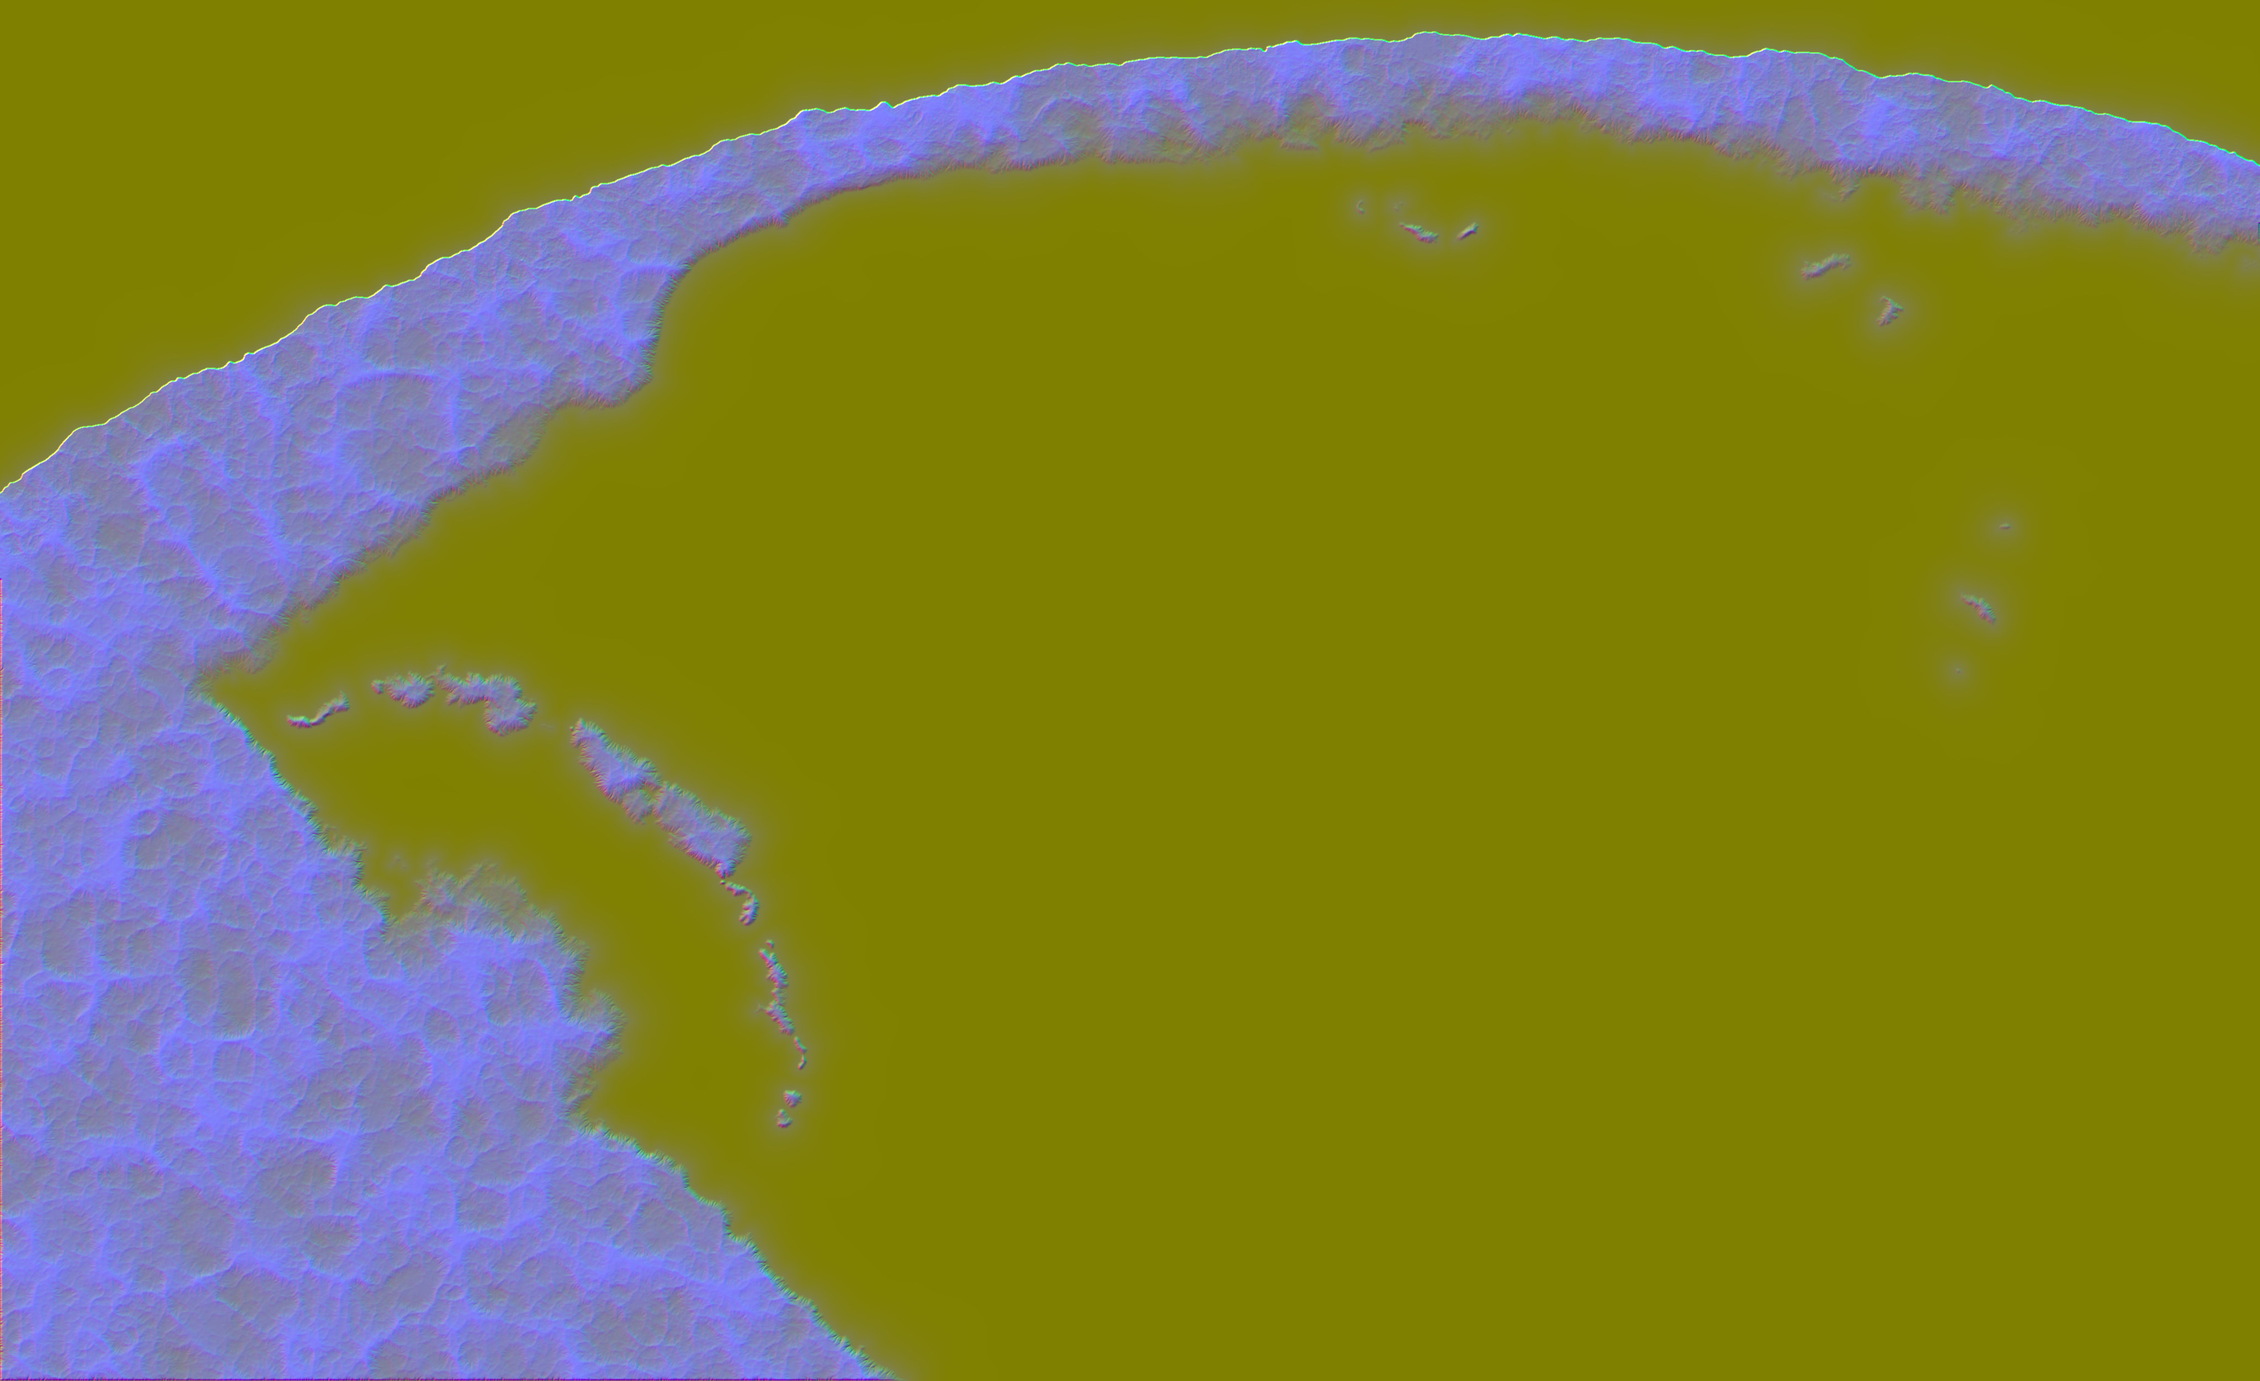
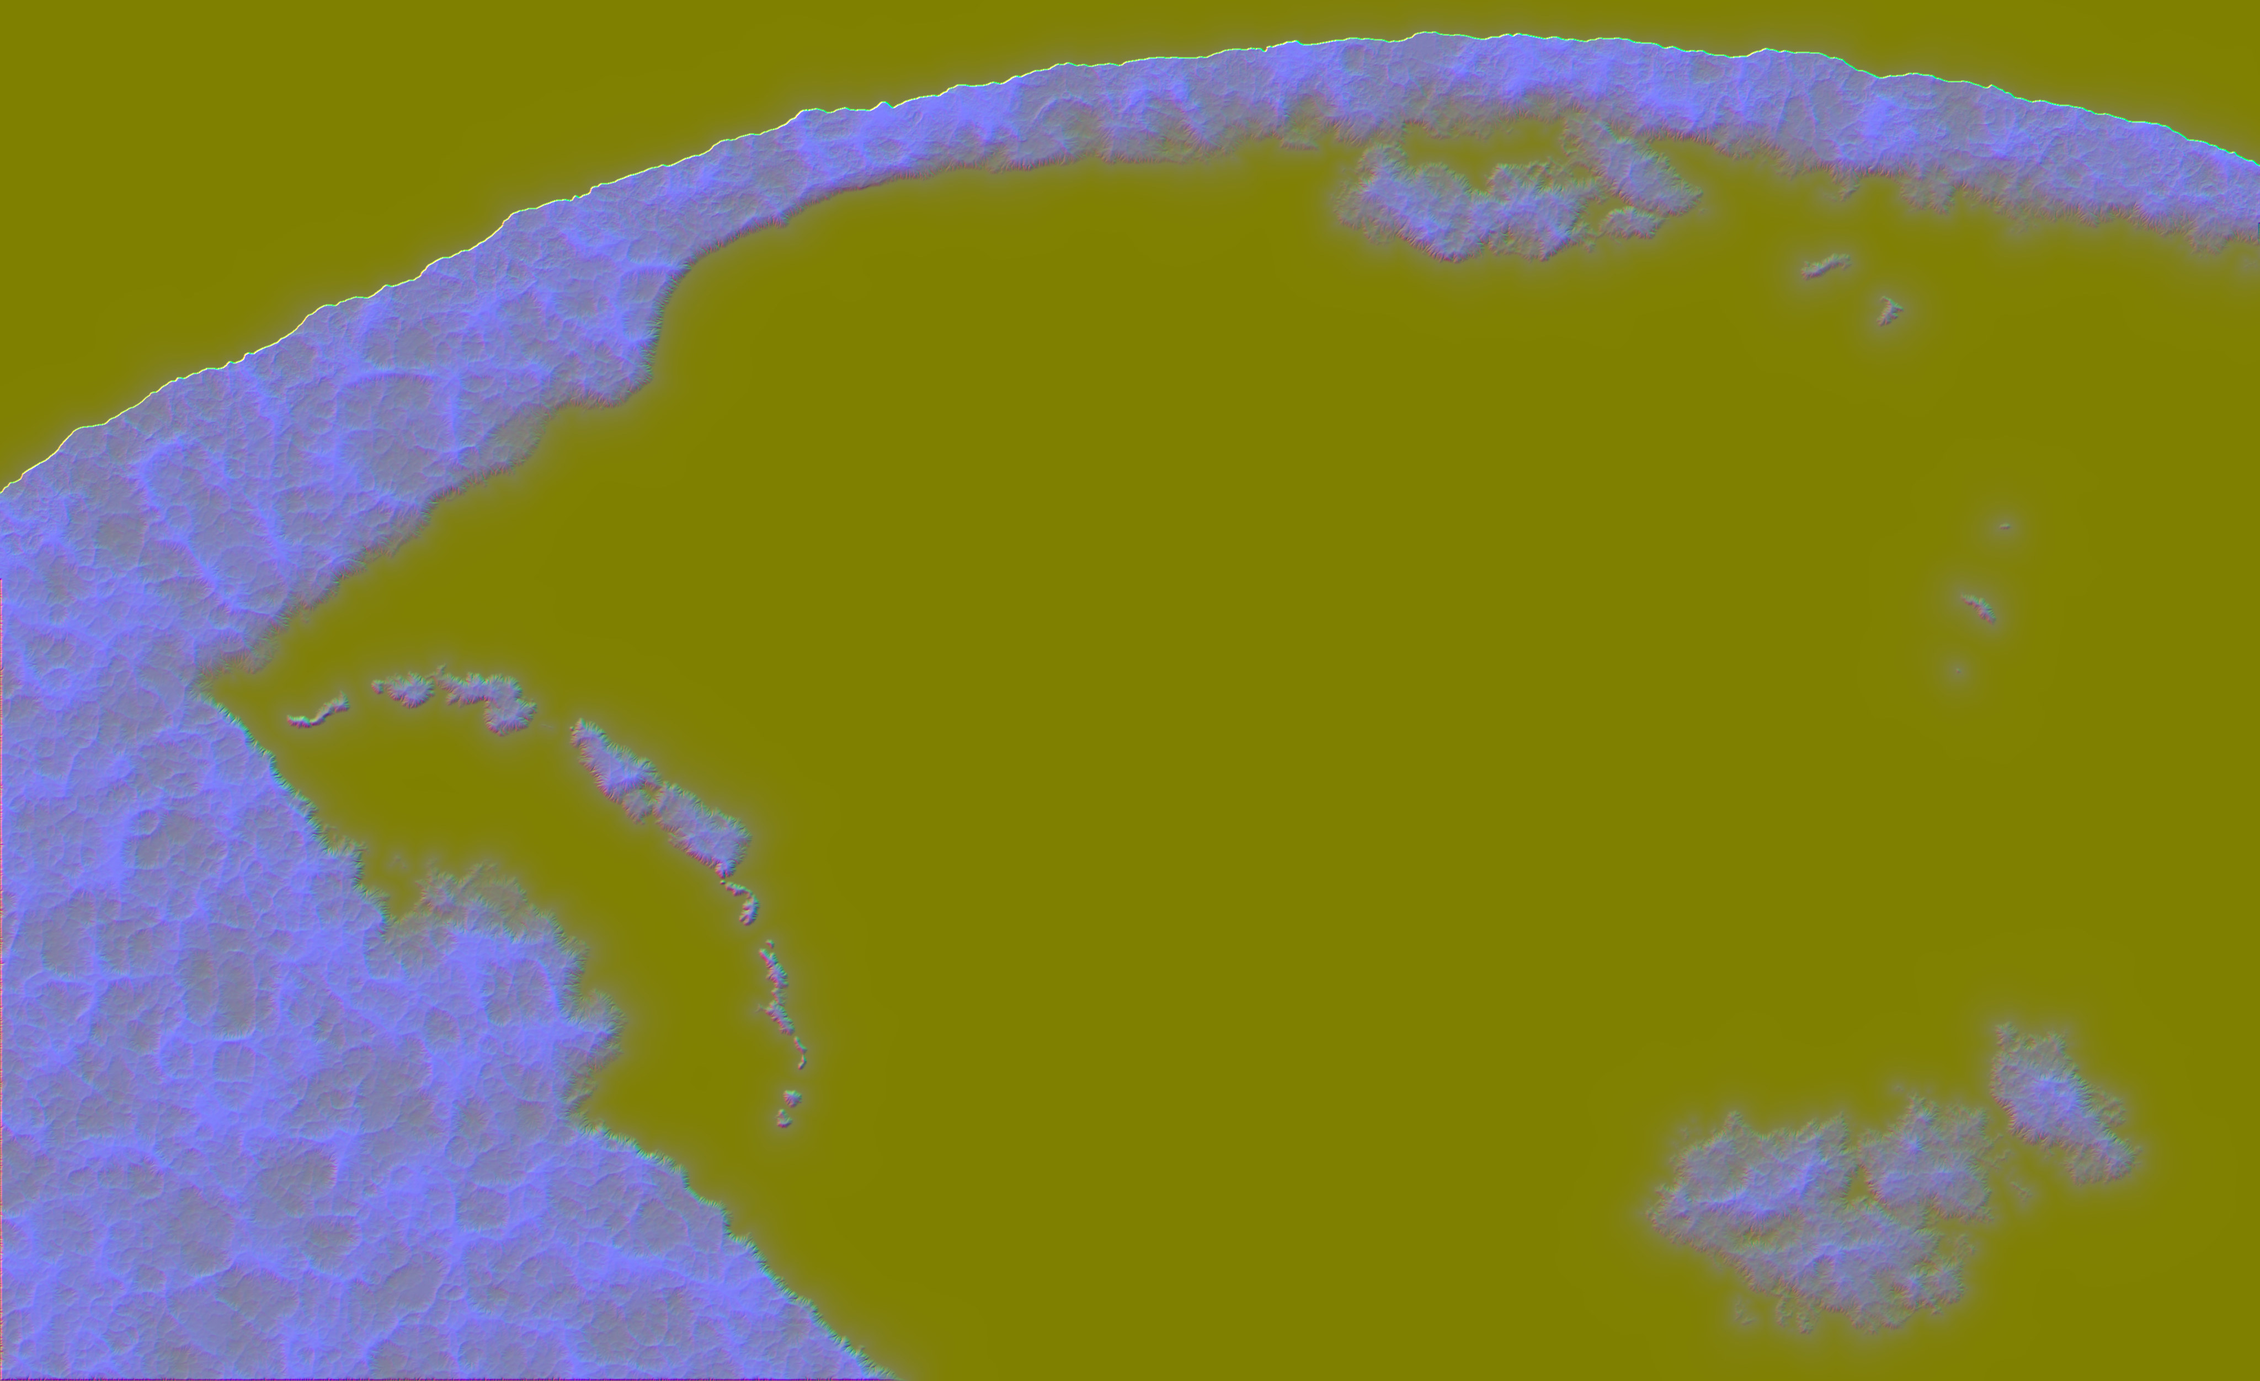
Sea from orbit, V3 candidate: a land at the top edge and one below the storm, pack ice with a hard edge of rafts and leads, greener other land, tighter night shelf

Changed region(s): [[0.7188, 0.7165, 0.9688, 0.9968], [0.5625, 0.0623, 0.7812, 0.2181]]

diff --git a/src/places/reveal/land/ocean.ts b/src/places/reveal/land/ocean.ts
@@ -69,9 +69,10 @@ vec3 oceanOther(vec3 water, vec3 landAt, vec3 bedAt, vec3 light, vec3 glare, vec
   vec2 slope = (landAt.rg - 0.5) * 3.2;
   float facing = (uSunDir.y - 1.6 * dot(slope, uSunDir.xz)) / sqrt(1.0 + 2.56 * dot(slope, slope));
   float lit = mix(1.0, clamp(facing / max(uSunDir.y, 0.2), 0.0, 2.2), 0.92);
-  // (The body's own lowland colours, muted: dun plain by the shore, olive where it holds water, dark rock on the high ground.)
+  // (One geology with the body but another country: paler dun by the shore, green where it holds water, grey rock on the high
+  // ground, a shade greener than the body's lowlands so that no piece of it is taken for a part of the body.)
   float mottle = vnoise(xz / 46.0 + 5.0);
-  vec3 ground = mix(mix(vec3(0.17, 0.12, 0.078), vec3(0.092, 0.09, 0.056), smoothstep(0.35, 0.7, mottle)), vec3(0.076, 0.064, 0.054), smoothstep(0.12, 0.62, height));
+  vec3 ground = mix(mix(vec3(0.165, 0.138, 0.084), vec3(0.074, 0.094, 0.054), smoothstep(0.35, 0.7, mottle)), vec3(0.07, 0.072, 0.058), smoothstep(0.12, 0.62, height));
   // (A strand of sand where the land comes down to the water: by day the coast is a lit line, under the bone's ivory.)
   ground = mix(ground, vec3(0.23, 0.185, 0.125), 0.7 * (1.0 - smoothstep(0.0, 0.07, height)));
   // (Surf where the open sea meets it, on some reaches and not on others.)
@@ -79,14 +80,15 @@ vec3 oceanOther(vec3 water, vec3 landAt, vec3 bedAt, vec3 light, vec3 glare, vec
   water = mix(water, vec3(0.6, 0.65, 0.68) * light / 3.14159, 0.5 * surf * surf);
   // (Under the moon the pale water of its shelf is the first thing found of an island, faint; the land stands in it as a shade
   // of the same value, never a dark hole in a pale ring. No light stands on it.)
-  water += vec3(0.017, 0.068, 0.08) * light / 3.14159 * clamp(landAt.b / 0.29, 0.0, 1.0) * uEmber.x * seen;
+  float nightShelf = smoothstep(0.1, 0.29, landAt.b) * (0.55 + 0.9 * mottle);
+  water += vec3(0.017, 0.068, 0.08) * light / 3.14159 * nightShelf * nightShelf * uEmber.x * seen;
   // (The air over the sun's image is bright: land that stands in it is seen through that light, as the body is.)
   vec3 groundLit = ground * light * lit / 3.14159 + 0.4 * glare;
   water = mix(water, mix(groundLit, 0.95 * water + 2.6 * groundLit, uEmber.x), isle);
   // (The pack and the sheet on the far land: blue grey where it is thin and in its leads, blue white where it is thick, blue in
   // the shade of its own relief. Never the bone's ivory. Into the air of the planet's edge it goes bluer and dimmer.)
   float ice = smoothstep(0.52, 0.8, bedAt.b) * seen;
-  vec3 pack = mix(vec3(0.2, 0.3, 0.37), vec3(0.46, 0.53, 0.6), smoothstep(0.7, 0.98, bedAt.b));
+  vec3 pack = mix(vec3(0.2, 0.3, 0.37), vec3(0.37, 0.465, 0.565), smoothstep(0.7, 0.98, bedAt.b));
   pack *= mix(vec3(1.0), mix(vec3(0.5, 0.64, 0.84), vec3(1.0), clamp(lit, 0.0, 1.0)) * min(lit, 1.25), isle);
   pack *= mix(vec3(0.42, 0.56, 0.74), vec3(1.0), smoothstep(0.04, 0.3, mu));
   // (Under the moon it is a grey a little over the sea's and well under the cloud's.)

diff --git a/assets-src/reveal/land/ocean/make_ocean.py b/assets-src/reveal/land/ocean/make_ocean.py
@@ -133,6 +133,11 @@ for a0, length, width, high, off, longer, wider in ISLES:
 # end of the body past the frame of the titan. x, y, length, width (master px), height, turn (degrees).
 LOW = [
     (3990, 95, 150, 70, 0.34, 20), (4200, 160, 70, 44, 0.26, -30), (3790, 40, 60, 36, 0.22, 60),
+    # (From amount D a land at the top edge of the titan's frame, right of where the upper hand points, most of it above the frame;
+    # and one beyond the storm, below and right of it, that the pull back uncovers.)
+    *([(3950, 30, 620, 330, 0.62, 12), (4420, 90, 600, 300, 0.7, -14), (4130, 200, 320, 160, 0.5, 25), (4800, -120, 560, 320, 0.55, 30),
+       (4790, 150, 380, 180, 0.5, -8),
+       (5400, 4030, 900, 520, 0.7, -15), (6050, 3960, 800, 460, 0.6, 20), (6600, 3700, 700, 420, 0.62, 50), (5750, 4350, 1100, 500, 0.66, 5)] if MAIN else []),
     (5640, 215, 150, 70, 0.36, -25), (5850, 415, 90, 50, 0.28, 30), (5545, 455, 54, 38, 0.24, 70), (5760, 610, 40, 30, 0.2, 10),
     (6230, 1650, 150, 70, 0.3, 70), (6120, 1950, 70, 44, 0.22, 20), (6400, 1380, 80, 40, 0.2, -40),
 ]
@@ -228,7 +233,7 @@ slope_y = np.clip(0.5 + 0.5 * gy * RISE / 1.6, 0.0, 1.0)
 land_map = np.stack([slope_x, slope_y, blue], axis=-1)
 
 # ---- ocean-bed red: the sea bed ----
-bed = 0.27 + 0.15 * fbm(1500, 4, 51) + 0.04 * fbm(300, 4, 52, ridged=True)
+bed = 0.215 + 0.15 * fbm(1500, 4, 51) + 0.04 * fbm(300, 4, 52, ridged=True)
 # (The floor climbs to the body from far out, on one side early and on another late.)
 bed += 0.17 * np.exp(-body_px / (200.0 * (0.4 + 1.2 * sstep(-1.0, 1.0, fbm(1100, 2, 53)))))
 # (The deepest basin lies west of the skull, which stands out of it alone, and another off the far coast's shelf.)
@@ -258,8 +263,11 @@ bed = np.maximum(bed, np.minimum(1.15 * np.exp(-(land_px / (150.0 + 130.0 * sste
 bed = blur(bed.astype(np.float32), 3.0)
 
 # ---- ocean-bed blue: the ice. A pack off the far coast, widest in its bays; floes, and leads that widen to its margin ----
-ice_reach = (175.0 + 55.0 * fbm(420, 3, 41) + 24.0 * fbm(110, 3, 42)) * ICE
+# (Wide in some reaches and a fringe in others: a band of one width along a coast reads as a drawn line.)
+ice_reach = (230.0 + 330.0 * sstep(-0.35, 0.5, fbm(900, 3, 41)) + 24.0 * fbm(110, 3, 42)) * ICE
 pack = 1.0 - (inside - reach) / np.maximum(ice_reach, 30.0) - 3.0 * (1.0 - ends)    # over 0 inside the pack, 1 at the coast
+# (No ice drifts toward the body: the open water round it stays open.)
+pack = pack - 2.0 * (1.0 - sstep(400.0, 700.0, body_px)) * (1.0 - is_land)
 
 
 def floes(spacing, seed):
@@ -280,22 +288,35 @@ def floes(spacing, seed):
 
 
 lead_big, rnd_big = floes(44.0, 71)
+lead_huge, rnd_huge = floes(125.0, 70)
+lead_giant, rnd_giant = floes(290.0, 69)
 lead_small, rnd_small = floes(16.0, 72)
 loose = sstep(0.75, 0.0, pack)                       # how far toward the margin: there the floes part and thin out
+# (Not evenly: here the pack is driven together, there it lies open.)
+loose = np.clip(loose * (1.0 + 0.9 * fbm(330, 3, 79)) + 0.25 * sstep(0.1, 0.9, fbm(330, 3, 79)) * sstep(1.0, 0.6, pack), 0.0, 1.0)
 # (The margin is torn by the swell at every size: tongues and bights of some tens of km, and the floes themselves.)
-there = sstep(0.0, 0.1, pack + 0.55 * (rnd_small - 0.5) * loose + 0.3 * fbm(260, 5, 73, gain=0.62) + 0.22 * loose * fbm(34, 3, 74))
+# (Its seaward edge is hard and runs along the sides of the rafts: a cloud bank has no such edge.)
+there = sstep(0.0, 0.025, pack + 1.2 * (rnd_giant - 0.5) * loose + 0.5 * (rnd_huge - 0.5) * loose + 0.16 * fbm(260, 5, 73, gain=0.62))
 # (Leads in master px: hair lines in the sheet, open water between the floes of the margin.)
-part_big = sstep(0.1, 0.7, loose)
-part_small = np.clip((loose - 0.25) / 0.75, 0.0, 1.0)
+part_big = 0.5 * sstep(0.1, 0.7, loose)
+part_small = 0.3 * np.clip((loose - 0.25) / 0.75, 0.0, 1.0)
 ice = there * sstep(-2.0 + 3.4 * part_big, 0.3 + 3.7 * part_big, lead_big * S) * sstep(-1.5 + 3.6 * part_small, 0.2 + 4.2 * part_small, lead_small * S)
+# (The largest floes are tens of km across and the water between them is wide and dark: what says ice from far off.)
+ice *= sstep(-1.0 + 9.0 * loose, 1.0 + 16.0 * loose, lead_huge * S)
+# (And those drift apart in rafts a few hundred km across with open sea between: the margin seen from the far orbit.)
+ice *= sstep(-2.0 + 14.0 * loose * (0.4 + 0.6 * rnd_giant), 2.0 + 30.0 * loose * (0.4 + 0.6 * rnd_giant), lead_giant * S)
 # (The sheet itself is whole but for a few long fractures, and it is not one white: old ice is thicker than new.)
 crack = np.minimum(np.abs(fbm(420, 5, 75, gain=0.55)), np.abs(fbm(300, 5, 76, gain=0.55)) + 0.02 * loose)
-ice *= 1.0 - 0.8 * (1.0 - sstep(0.004, 0.03, crack)) * sstep(0.1, 0.4, pack)
+ice *= 1.0 - 0.8 * (1.0 - sstep(0.008, 0.05, crack)) * sstep(0.1, 0.4, pack)
 ice *= 0.72 + 0.28 * sstep(-1.0, 1.0, fbm(190, 4, 77))
-# (The sheet lies on over the far land to the planet's edge: only some headlands of its coast stand bare. No ice on the islands.)
+# (The sheet lies on over the far land to the planet's edge. No ice on the islands.)
 on_far = is_land & (far_land >= isle)
-# (On the sea it is young and thin, a blue grey skin with some thicker floes in it: the white is on the land.)
-ice = np.where(on_far, ice * sstep(-30.0, 90.0, reach - inside + 70.0 * fbm(240, 4, 78)), ice * (1.0 - is_land) * (0.42 + 0.3 * rnd_big * sstep(0.2, 0.9, pack)))
+# (On the sea each floe has its own age: some a blue grey skin, some old and white.)
+# (Where the far land faces the body no pack lies off it: there the sheet stops short of the shore and a strip of bare rock
+# gives it its edge.)
+coast_px = cv2.distanceTransform(is_land.astype(np.uint8), cv2.DIST_L2, 5) * S
+bare = (1.0 - sstep(600.0, 900.0, body_px)) * (1.0 - sstep(0.0, 14.0, coast_px - 45.0 - 50.0 * fbm(240, 4, 78) - 30.0 * rnd_huge))
+ice = np.where(on_far, ice * (1.0 - bare), ice * (1.0 - is_land) * (1.0 - (0.2 + 0.4 * sstep(0.0, 0.6, loose)) * (1.0 - rnd_huge ** 0.7 * (0.6 + 0.4 * rnd_big))))
 cold = sstep(-2.6, 0.2, pack) * (1.0 - is_land)
 ice_map = np.where(ice > 0.02, 0.5 + 0.5 * ice, 0.45 * cold * (1.0 - ice / 0.02))
 

diff --git a/assets-src/reveal/land/ocean/RECIPE.md b/assets-src/reveal/land/ocean/RECIPE.md
@@ -5,8 +5,8 @@
 Made by: `assets-src/reveal/land/ocean/make_ocean.py` (Python 3, numpy, OpenCV, Pillow). No image model.
 From: `assets-src/reveal/land/ocean/body-10027.png` (the part reveal/continent drawn alone at film frame 10027, review hd: where the film draws the body), and fixed seeds in the script.
 Prompt or command: `python3 assets-src/reveal/land/ocean/make_ocean.py` from the repo root (amount D is the default). Writes `public/assets/reveal/land/ocean-bed.jpg`, `ocean-land.jpg` and `assets-src/reveal/land/ocean/ocean-mask.png`.
-Takes: the last of about 25 runs (not counted one by one) as the layout, the bed, the ice and the silt were tuned.
-Why this one: the sea of the titan frame was one navy. The map gives it a bed (red: basins, a rise to the body, a trench and a platform for the island arc, banks, the shelves of the other land), bloom drawn out along one current field that follows the lines of equal depth and the silt of three rivers of the lower leg, carried from their mouths by that same field (green: under a half bloom, over it silt), and the cold water and the ice (blue: under 0.45 cold, over 0.5 ice: a sheet that lies on over the far land to the planet's edge, a thin pack with a broken margin on the sea before it). 4096 x 2504 over the master rectangle x -1800 to 7416, y -800 to 4834.
+Takes: the last of about 31 runs (not counted one by one) as the layout, the bed, the ice and the silt were tuned.
+Why this one: the sea of the titan frame was one navy. The map gives it a bed (red: basins, a rise to the body, a trench and a platform for the island arc, banks, the shelves of the other land), bloom drawn out along one current field that follows the lines of equal depth and the silt of three rivers of the lower leg, carried from their mouths by that same field (green: under a half bloom, over it silt), and the cold water and the ice (blue: under 0.45 cold, over 0.5 ice: a sheet that lies on over the far land to the planet's edge, bare rock at its shore where it faces the body, and before it on the sea a pack whose hard seaward edge runs along the sides of rafts some hundreds of km across, with wide dark leads between them). 4096 x 2504 over the master rectangle x -1800 to 7416, y -800 to 4834.
 Date: 2026-11-28
 
 ## ocean-land.jpg
@@ -14,6 +14,6 @@ Date: 2026-11-28
 Made by: `assets-src/reveal/land/ocean/make_ocean.py` (Python 3, numpy, OpenCV, Pillow). No image model.
 From: `assets-src/reveal/land/ocean/body-10027.png` and fixed seeds in the script.
 Prompt or command: `python3 assets-src/reveal/land/ocean/make_ocean.py` from the repo root (the same run as ocean-bed.jpg). `--amount A`, `C` and `B` give less of the other land, `E` larger islands in the arc.
-Takes: the last of about 25 runs. Amounts A, C and B, then B, D and E were drawn side by side for the lead; D is kept until the lead chooses.
-Why this one: Brandon's note of 27 November: no other landmasses. An island arc of unlike volcanic islands convex toward the body, low islands on rises at the top and in the sun's image, a far coast under the planet's edge and, from amount D, a mainland behind the arc that runs on out of the map at the lower left, each a height field cut by a stream power erosion (red, green: its slope; blue: its height, over 0.3 land, under it how shallow the water by it is). Nothing nearer the body than 330 px of the master, nothing by the hurricane.
+Takes: the last of about 31 runs. Amounts A, C and B, then B, D and E were drawn side by side for the lead; D is kept until the lead chooses.
+Why this one: Brandon's note of 27 November: no other landmasses. An island arc of unlike volcanic islands convex toward the body, low islands on rises at the top and in the sun's image, a far coast under the planet's edge and, from amount D, a mainland behind the arc that runs on out of the map at the lower left, a land at the top edge of the titan's frame right of where the upper hand points and a land below the hurricane that the pull back uncovers, each a height field cut by a stream power erosion (red, green: its slope; blue: its height, over 0.3 land, under it how shallow the water by it is). Nothing nearer the body than 330 px of the master, nothing by the hurricane.
 Date: 2026-11-28

diff --git a/assets-src/reveal/ROWS-reveal_ocean_builder_n30.md b/assets-src/reveal/ROWS-reveal_ocean_builder_n30.md
@@ -2,5 +2,5 @@
 
 | file | what | tool or model | prompt | take | date |
 | --- | --- | --- | --- | --- | --- |
-| public/assets/reveal/land/ocean-bed.jpg | the sea from orbit over the master rectangle x -1800 to 7416, y -800 to 4834: red the sea bed (0 the deepest basin, 1 a shoal), green bloom along the currents (under a half) and the silt of three rivers (over it), blue the cold of the water (under 0.45) and the ice (over 0.5). 4096 x 2504 | assets-src/reveal/land/ocean/make_ocean.py (numpy, OpenCV, Pillow) from assets-src/reveal/land/ocean/body-10027.png and fixed seeds | none: no image model | last of about 25 runs | 2026-11-28 |
-| public/assets/reveal/land/ocean-land.jpg | the other land over the same rectangle: red and green its slope, blue its height (over 0.3 land, under it how shallow the water by it is). 4096 x 2504 | the same run of make_ocean.py | none: no image model | last of about 25 runs | 2026-11-28 |
+| public/assets/reveal/land/ocean-bed.jpg | the sea from orbit over the master rectangle x -1800 to 7416, y -800 to 4834: red the sea bed (0 the deepest basin, 1 a shoal), green bloom along the currents (under a half) and the silt of three rivers (over it), blue the cold of the water (under 0.45) and the ice (over 0.5). 4096 x 2504 | assets-src/reveal/land/ocean/make_ocean.py (numpy, OpenCV, Pillow) from assets-src/reveal/land/ocean/body-10027.png and fixed seeds | none: no image model | last of about 31 runs | 2026-11-28 |
+| public/assets/reveal/land/ocean-land.jpg | the other land over the same rectangle: red and green its slope, blue its height (over 0.3 land, under it how shallow the water by it is). 4096 x 2504 | the same run of make_ocean.py | none: no image model | last of about 31 runs | 2026-11-28 |
